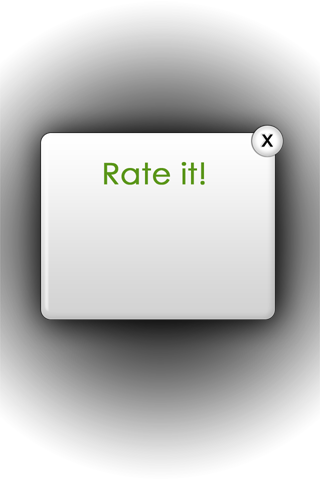
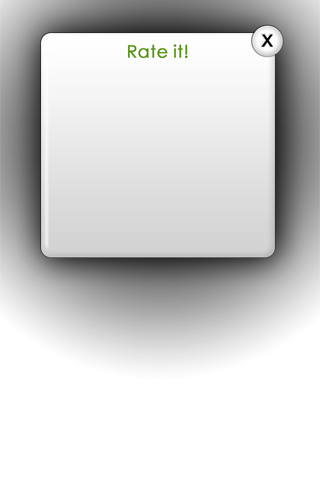
updated rating view to add comments field, still now api for comments though

diff --git a/iRestaurant/RatingPopupViewController.h b/iRestaurant/RatingPopupViewController.h
@@ -9,7 +9,7 @@
 #import <UIKit/UIKit.h>
 
 @protocol RatingPopupDelegate <NSObject>
--(void)startRatingServiceWithRating:(float)rating;
+-(void)startRatingServiceWithRating:(float)rating andComments:(NSString *)comments;
 @end
 
 
@@ -22,6 +22,7 @@
     IBOutlet UIButton *star3;
     IBOutlet UIButton *star4;
     IBOutlet UIButton *star5;
+    IBOutlet UITextField *commentField;
     NSArray *starsArray;
     int currentRating;
     UIImage *orangeStar;
@@ -35,6 +36,7 @@
 @property (nonatomic, retain) IBOutlet UIButton *star3;
 @property (nonatomic, retain) IBOutlet UIButton *star4;
 @property (nonatomic, retain) IBOutlet UIButton *star5;
+@property (nonatomic, retain) IBOutlet UITextField *commentField;
 @property (nonatomic, retain) NSArray *starsArray;
 @property (nonatomic, assign) int currentRating;
 @property (nonatomic, retain) UIImage *orangeStar;

diff --git a/iRestaurant/RatingService.m b/iRestaurant/RatingService.m
@@ -31,7 +31,7 @@
     return self;
 }
 
--(void) rateMenuItem:(MenuItem *) menuItem withRating:(float) rating {
+-(void) rateMenuItem:(MenuItem *) menuItem withRating:(float) rating andComments:(NSString *)comments {
     urlString = [NSString stringWithFormat:@"http://monkey.elhideout.org/menu_items/%@/rate.json", menuItem._id];
 
     [jsonDictionary setObject:[NSNumber numberWithFloat:rating] forKey:@"value"];
@@ -40,7 +40,7 @@
 
 }
 
--(void) rateRestaurant:(Restaurant *) restaurant withRating:(float) rating {
+-(void) rateRestaurant:(Restaurant *) restaurant withRating:(float) rating andComments:(NSString *)comments {
     
     urlString = [NSString stringWithFormat:@"http://monkey.elhideout.org/restaurants/%@/rate.json", restaurant._id];
 

diff --git a/iRestaurant/RestaurantViewController.m b/iRestaurant/RestaurantViewController.m
@@ -494,9 +494,10 @@
     [rpvc animateIn];
 }
 
--(void)startRatingServiceWithRating:(float)rating {
+-(void)startRatingServiceWithRating:(float)rating andComments:(NSString *)comments
+{
     RatingService *rrs = [[RatingService alloc] initWithDelegate:self];
-    [rrs rateRestaurant:restaurant withRating:rating];
+    [rrs rateRestaurant:restaurant withRating:rating andComments:comments];
 }
 
 //- (void)actionSheet:(UIActionSheet *)actionSheet clickedButtonAtIndex:(NSInteger)buttonIndex {

diff --git a/iRestaurant/DishViewController.m b/iRestaurant/DishViewController.m
@@ -384,10 +384,10 @@
     [rpvc animateIn];
 }
 
--(void)startRatingServiceWithRating:(float)rating 
+-(void)startRatingServiceWithRating:(float)rating andComments:(NSString *)comments
 {
     RatingService *rrs = [[RatingService alloc] initWithDelegate:self];
-    [rrs rateMenuItem:menu_item withRating:rating];
+    [rrs rateMenuItem:menu_item withRating:rating andComments:comments];
 }
 
 - (void)actionSheet:(UIActionSheet *)actionSheet clickedButtonAtIndex:(NSInteger)buttonIndex {

diff --git a/iRestaurant/RatingPopupViewController.m b/iRestaurant/RatingPopupViewController.m
@@ -21,6 +21,7 @@
 @synthesize currentRating;
 @synthesize orangeStar, whiteStar;
 @synthesize delegate;
+@synthesize commentField;
 
 - (id)initWithNibName:(NSString *)nibNameOrNil bundle:(NSBundle *)nibBundleOrNil
 {
@@ -63,7 +64,7 @@
 
 -(IBAction)submitButtonPressed:(id)sender 
 {
-    [delegate startRatingServiceWithRating:currentRating];
+    [delegate startRatingServiceWithRating:currentRating andComments:commentField.text];
     [self closeButtonPressed:nil];
 }
 

diff --git a/iRestaurant/DishViewController.h b/iRestaurant/DishViewController.h
@@ -42,7 +42,7 @@
 -(void)photoButtonPressed:(id)sender;
 -(void)menuButtonPressed:(id)sender;
 -(void)bookmarkButtonPressed:(id)sender;
--(void)startRatingServiceWithRating:(float)rating;
+-(void)startRatingServiceWithRating:(float)rating andComments:(NSString *)comments;
 -(void) newImageLoaded:(NSDictionary *)dict_passed;
 -(void)restaurantButtonPressed:(id)sender;
 

diff --git a/iRestaurant/RestaurantViewController.h b/iRestaurant/RestaurantViewController.h
@@ -46,7 +46,7 @@
 -(void) menuButtonPressed:(id)sender;
 -(void) bookmarkButtonPressed:(id)sender;
 -(void) websiteButtonPressed:(id)sender;
--(void) startRatingServiceWithRating:(float)rating;
+-(void) startRatingServiceWithRating:(float)rating andComments:(NSString *)comments;
 -(void) newImageLoaded:(NSDictionary *)dict_passed;
 
 @end
